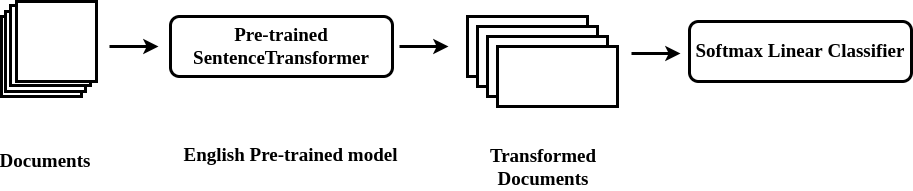
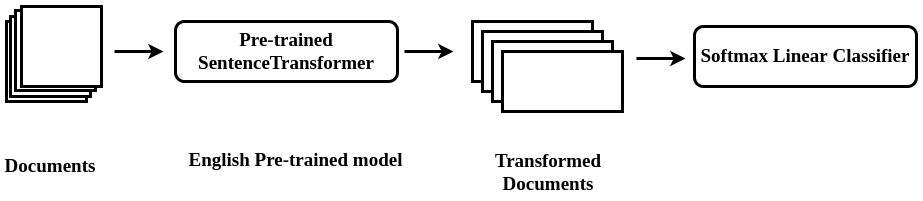
updates

diff --git a/README.md b/README.md
@@ -1,14 +1,51 @@
 #### Fine-tuning Sentence-Transformers for Multi-class Language Identification Task with PyTorch Lightning
 
-This code is for language identification using SentenceTransformer, a pre-trained transformer-based model for natural language processing. The code first loads the Papluca Language Identification dataset using HuggingFace's load_dataset method and splits it into train, validation, and test sets. The code then uses the pretrained SentenceTransformer model as a feature extractor to generate embeddings from the texts and trains a single Linear layer on top of the embeddings for the multiclass language identification task. The code also uses PyTorch Lightning for training and evaluating the model.
+This repository is for language identification using [SentenceTransformer](https://www.sbert.net/index.html), a pre-trained transformer-based model for natural language processing. 
 
 A list of SentenceTransformer pre-trained models can be found [here](https://www.sbert.net/docs/pretrained_models.html)
 
-I specific used the [task-agnotic (English) pre-trained SentenceTransformer model](https://arxiv.org/pdf/2002.10957.pdf) to extract features from 100 documents per language and trained a single linear classifier on the extracted features.
+I specifically used the [task-agnotic (English) pre-trained SentenceTransformer model](https://arxiv.org/pdf/2002.10957.pdf) to extract features from 100 documents per language and trained a single linear classifier on the extracted features.
 
 ![Caption](architecture.png)
 
-Figure: Architecture for the approach  pre-trained SentenceTransf
+Figure: Architecture for the approach. A pre-trained SentenceTransformer transforms the documents and to train a single linear classifier.
 
 
-[![Open In Colab](https://colab.research.google.com/assets/colab-badge.svg)](https://colab.research.google.com/github/weiji14/deepbedmap/]
+## Example Usage
+
+<p align="center">
+    <a href="https://colab.research.google.com/github/kayodeolaleye/multilang-identification/blob/main/Multilang_identification.ipynb" target="_parent"><img src="https://colab.research.google.com/assets/colab-badge.svg" alt="Open In Colab"/></a>
+</p>
+
+```python
+import torch
+
+# download pretrained weights (and optionally move to GPU)
+vocoder = Vocoder.from_pretrained(
+    "https://github.com/bshall/UniversalVocoding/releases/download/v0.2/univoc-ljspeech-7mtpaq.pt"
+).cuda()
+
+doc = ...
+
+with torch.no_grad():
+    wav, sr = vocoder.generate(mel)
+
+# save output
+sf.write("path/to/save.wav", wav, sr)
+```
+
+## Train from Scratch
+
+1. Clone the repo:
+```
+git clone gh repo clone kayodeolaleye/multilang-identification
+cd ./multilang-identification
+```
+2. Install requirements:
+```
+pip install -r requirements.txt
+```
+6. Train the model:
+```
+python training.py --model_name all-MiniLM-L6-v2
+```
